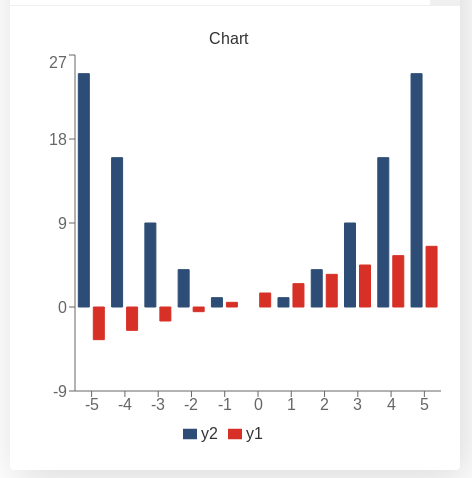
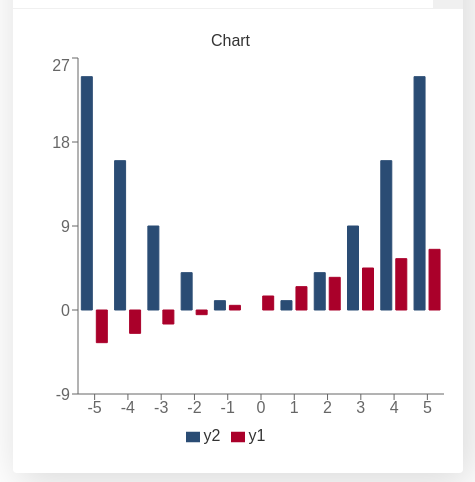
well, it wasn't now it is

diff --git a/docs/stdCustomJS/barChart.rst b/docs/stdCustomJS/barChart.rst
@@ -23,7 +23,7 @@ Our goal here is to create a bar chart that will show two different functions to
 
    Example of a bar chart with two user defined functions
 
-We have chosen the following colours for this chart: **blue** (for ``n1`` and ``offset1``) and **orange** (for ``n2`` and ``offset2``) which corresponds to positions **2** and **8** in the array of data [#f1]_ as shown in the :ref:`color coding in charts <colorChart>` picture we showed in a previous section.
+We have chosen the following colours for this chart: **red2** (for ``n1`` and ``offset1``) and **blue** (for ``n2`` and ``offset2``) which corresponds to positions **11** and **1** in the array of data [#f1]_ as shown in the :ref:`color coding in charts <colorChart>` picture we showed in a previous section.
 
 .. warning::
     The position of the labels need to match the position of the data in the array, otherwise the data will not be shown.
@@ -43,29 +43,28 @@ Let's look that the example code now:
 
     'use strict';
 
-    omni.onResult(['a','b','offset','n'],function(ctx){
-    var chartData = [],
-        n1 = ctx.getNumberValue('n1'),
-        n2 = ctx.getNumberValue('n2'),
-        offset1 = ctx.getNumberValue('offset1'),
-        offset2 = ctx.getNumberValue('offset2'),
-        a = ctx.getNumberValue('a'),
-        b = ctx.getNumberValue('b');
-    for(var i = a; i <= b; i++){
-        chartData.push([mathjs.format(i,2), // x-value
-                        ,,,,,               // blank data to match colors
-                        mathjs.pow(i, n2)+offset2, // yellow y-value
-                        ,,
-                        mathjs.pow(i, n1)+offset1 // first y-value
+    omni.onResult(['a','b','offset1','n1','n2','offset2'],function(ctx){
+        var chartData = [],
+            n1 = ctx.getNumberValue('n1'),
+            n2 = ctx.getNumberValue('n2'),
+            offset1 = ctx.getNumberValue('offset1'),
+            offset2 = ctx.getNumberValue('offset2'),
+            a = ctx.getNumberValue('a'),
+            b = ctx.getNumberValue('b');
+        for(var i = a; i <= b; i++){
+            chartData.push([mathjs.format(i,2), // x-value
+                            mathjs.pow(i, n2)+offset2, // yellow y-value
+                            ,,,,,,,,,				  // black data to match color
+                            mathjs.pow(i, n1)+offset1 // first y-value
                         ]);
-    }
-    ctx.addChart({type: 'bar',
-                  labels: ['x',,,,,, 'y2',,, 'y1'],
-                  data: chartData,
-                  title: "Chart",
-                  afterVariable: "",
-                  alwaysShown: false
-                });
+        }
+        ctx.addChart({type: 'bar',
+                        labels: ['x', 'y2',,,,,,,,,, 'y1'],
+                        data: chartData,
+                        title: "Chart",
+                        afterVariable: "",
+                        alwaysShown: false
+                    });
     });
 
 As you can see, there is little to now difference between making a basic ``bar`` chart and making a ``line`` or ``area`` chart. We have purposely not activated the option to *stack* the data as this option is very prone to errors.
